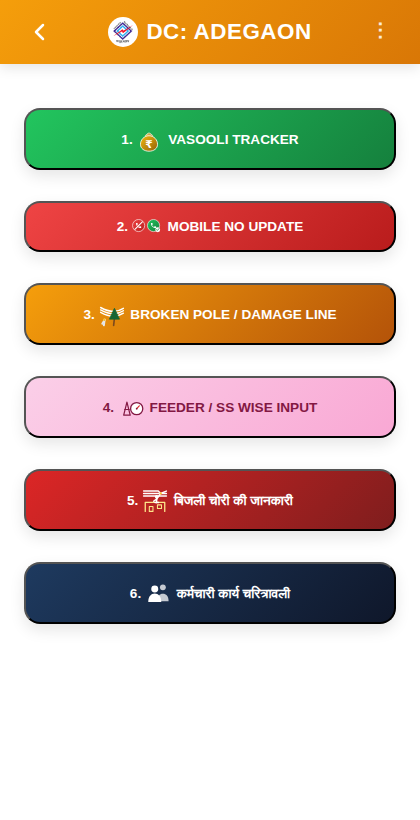
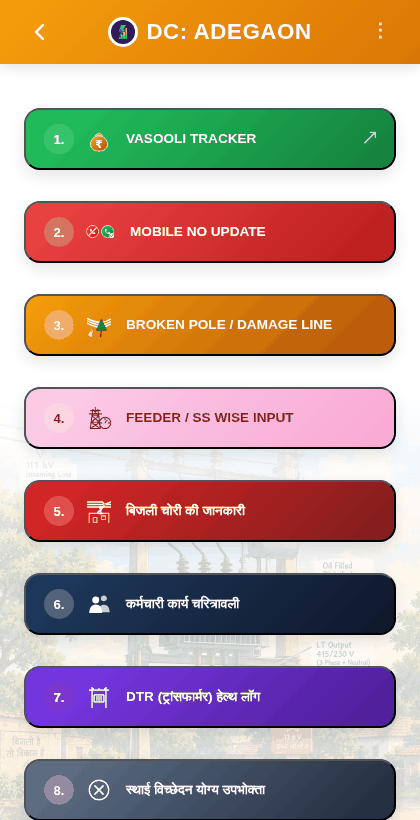
install वाली झलक में भी नया लोगो, और privacy का footer ठीक (#43)
Do cheezein bachi hui thi jahan MPEZ ab bhi dikh raha tha:

1. screenshots/home.png aur dc-dashboard.png — yeh manifest me hain aur
   Android ke install prompt me "jhalak" ke roop me dikhte hain. Dono
   September ke the, yaani purana MPEZ logo aur "M.P. POORV KSHETRA
   VIDYUT VITARAN CO. LTD." wala home page. Ab wapas liye gaye (420x820,
   manifest me yahi size likha hai), aur 256 rang par le aakar 490 KB se
   161 KB kar diye.

2. privacy.html ka footer. Page ke sabse neeche akeli khadi aisi pankti
   ka aam matlab "yeh site is company ki hai" nikalta hai — wahi pattern
   jo home page se hataya tha. Ab maalik nahi, upyog likha hai:
   "Built for office use at Seoni Circle, Lakhnadon Division — not an
   official departmental website."

Upar wala paragraph ("This is an internal utility tool … does not imitate
any other website") jaan-bujhkar waisa hi hai — Safe Browsing ke
sameekshak ke liye wahi sabse kaam ki pankti hai.

APP_VER 40→41, CACHE v3.5→v3.6. Lint saaf, Playwright 79/79 paas.

Claude-Session: https://claude.ai/code/session_012eYi8KQm6uiqPe1oyjHN8E

diff --git a/privacy.html b/privacy.html
@@ -44,6 +44,9 @@ for departmental work. It is not sold or shared with third parties.</p>
 <p>For any question about this tool or this statement, contact the site administrator:
 <strong>badalparje@gmail.com</strong></p>
 
-<footer>M.P. Poorv Kshetra Vidyut Vitaran Co. Ltd. — Seoni Circle, Lakhnadon Division · Internal use only</footer>
+<!-- Footer page ke sabse neeche akela khada hota hai, to uska aam matlab "yeh site is
+     company ki hai" nikalta hai. Isliye yahan maalik nahi, upyog likha gaya hai —
+     wahi baat jo home page par bhi likhi hai. -->
+<footer>Built for office use at Seoni Circle, Lakhnadon Division — not an official departmental website.</footer>
 </body>
 </html>

diff --git a/sw.js b/sw.js
@@ -20,7 +20,7 @@
 // kuch dabaye, sirf agli baar app kholte hi apne-aap theek ho jaayenge
 // (browser SW script ka byte-diff khud detect karke naya SW activate karta
 // hai, jo purana-naam-wala cache activate hote hi delete kar deta hai).
-const CACHE = "seoni-circle-v3.5";
+const CACHE = "seoni-circle-v3.6";
 const CORE = ["./", "./index.html", "./manifest.json"];
 
 self.addEventListener("install", (e) => {

diff --git a/index.html b/index.html
@@ -13,7 +13,7 @@
     <link rel="manifest" href="./manifest.json">
     <meta name="theme-color" content="#6cb1e1">
     <link rel="apple-touch-icon" href="./icon-192.png">
-    <script>window.__APP_VERSION__ = 40;</script>
+    <script>window.__APP_VERSION__ = 41;</script>
 </head>
 <body>
     <div id="toast-notif"></div>
